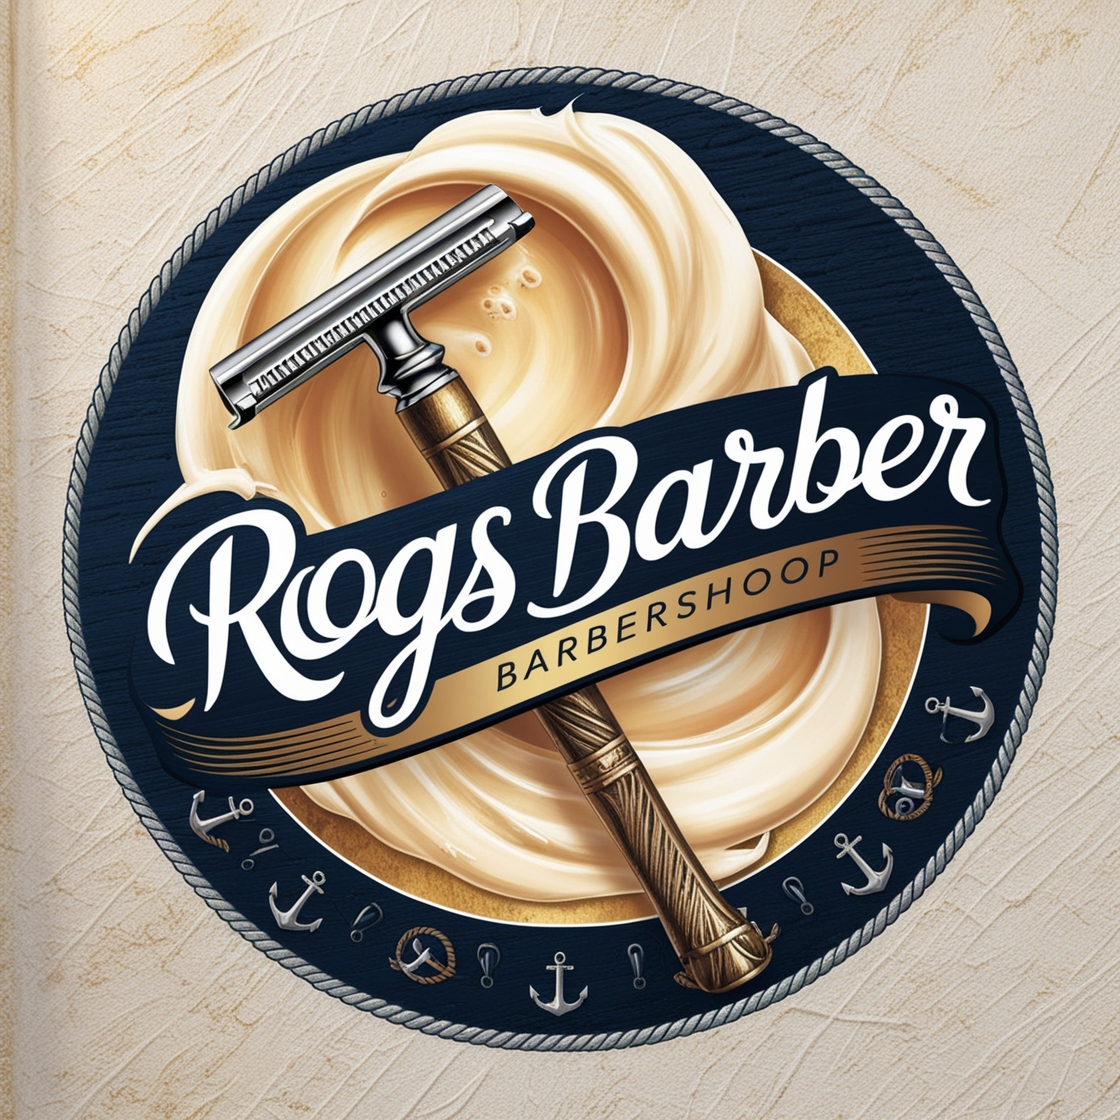
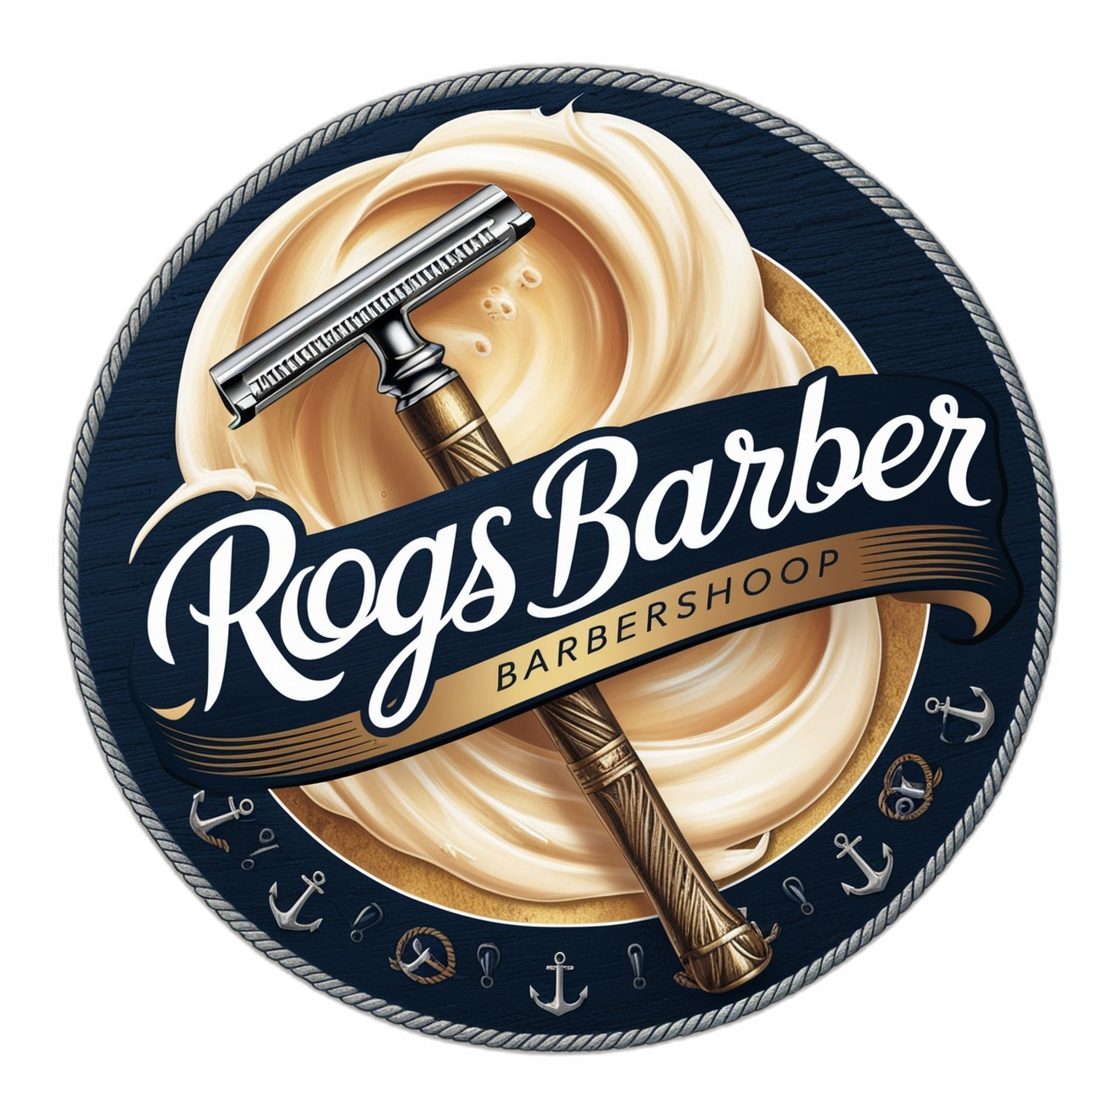
Barber

diff --git a/index.html b/index.html
@@ -37,7 +37,7 @@
                      data-aos="flip-up"
                       data-aos-delay="300" 
                       data-aos-duration="1500"
-                      src="img/logo.svg" 
+                      src="img/Rogs Barber.jpg" 
                       alt="logo da barbearia">
                 </div>
 
